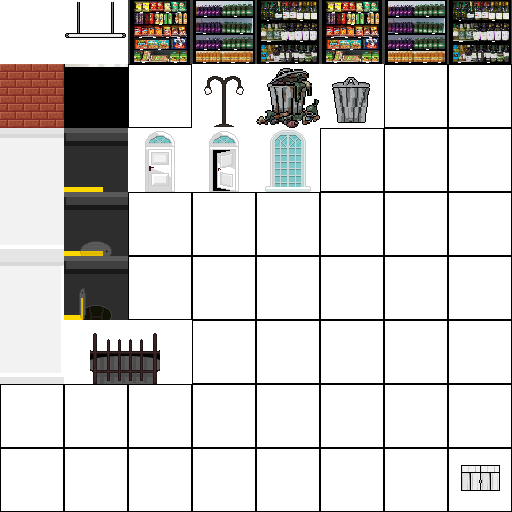
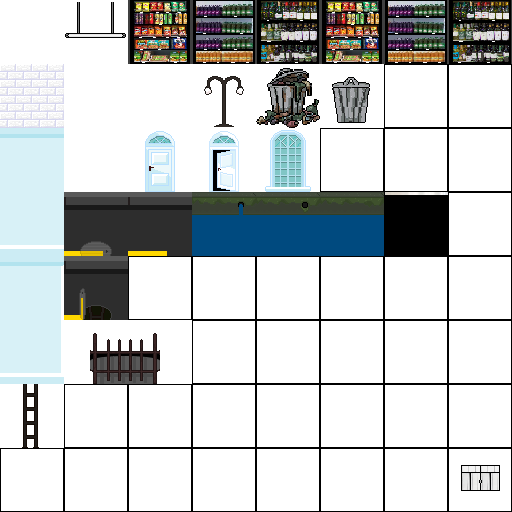
inicio do esgoto

diff --git a/src/World/World.java b/src/World/World.java
@@ -22,6 +22,7 @@ public class World {
 	public static Tile[] tiles;
 	public static int WIDTH,HEIGHT;
 	private int cont=0;
+	private boolean canoOn=false;
 	private int left_dir=0,right_dir=1;
 	private int dir=left_dir;
 	private int beiradas=1;
@@ -57,7 +58,32 @@ public class World {
 							Game.entities.add(post);
 						}
 						Plataforma pack = new Plataforma(xx*Game.TILE_SIZE,yy*Game.TILE_SIZE,Game.TILE_SIZE,Game.TILE_SIZE,null);
+						pack.setTipo(1);
 						Game.entities.add(pack);
+					}else if(pixelAtual == 0xFFF2F2F2){
+						//chao de esgoto
+						Plataforma pack = new Plataforma(xx*Game.TILE_SIZE,yy*Game.TILE_SIZE,Game.TILE_SIZE,Game.TILE_SIZE,null);
+						pack.setTipo(4);
+						Game.entities.add(pack);
+						
+						
+						
+						
+					}else if(pixelAtual == 0xFFE5E5E5){
+						//chao de esgoto co canos
+						Plataforma pack = new Plataforma(xx*Game.TILE_SIZE,yy*Game.TILE_SIZE,Game.TILE_SIZE,Game.TILE_SIZE,null);
+						if(canoOn) {
+							pack.setTipo(2);
+							canoOn=false;
+						}else {
+							pack.setTipo(3);
+							canoOn=true;
+						}
+						Game.entities.add(pack);
+						
+						
+						
+						
 					}else if(pixelAtual == 0xFFAA004A){
 						//bueiro
 						
@@ -111,10 +137,32 @@ public class World {
 						//parte de cima
 						tiles[xx + (yy * WIDTH)] = new FundoTile(xx*Game.TILE_SIZE,yy*Game.TILE_SIZE, 
 								Tile.colorir(Game.cenario.getSprite(0*Game.TILE_SIZE,2*Game.TILE_SIZE,Game.TILE_SIZE,Game.TILE_SIZE),predios1[cor]));
+					}else if(pixelAtual == 0xFF35F2F2) {
+						//parede tunel
+						tiles[xx + (yy * WIDTH)] = new FundoTile(xx*Game.TILE_SIZE,yy*Game.TILE_SIZE, 
+								Tile.colorir
+								(Game.cenario.getSprite
+										(0*Game.TILE_SIZE,1*Game.TILE_SIZE,Game.TILE_SIZE,Game.TILE_SIZE),new Color(0xFF3B4235)));
 					}else   if(pixelAtual == 0xFF595959) {
 						//porta
 						tiles[xx + (yy * WIDTH)] = new FundoTile(xx*Game.TILE_SIZE,yy*Game.TILE_SIZE, 
 								Tile.colorir(Game.cenario.getSprite(0*Game.TILE_SIZE,3*Game.TILE_SIZE,Game.TILE_SIZE,Game.TILE_SIZE),predios1[cor]));
+						Porta pack = new Porta(xx*Game.TILE_SIZE,yy*Game.TILE_SIZE,Game.TILE_SIZE,Game.TILE_SIZE,null);
+						pack.setCor(predios1[cor]);
+						Game.entities.add(pack);
+						Game.portas.add(pack);
+					}else    if(pixelAtual == 0xFFE50063) {
+						//escada baixa
+						tiles[xx + (yy * WIDTH)] = new FundoTile(xx*Game.TILE_SIZE,yy*Game.TILE_SIZE, 
+								Tile.colorir(Game.cenario.getSprite(0*Game.TILE_SIZE,3*Game.TILE_SIZE,Game.TILE_SIZE,Game.TILE_SIZE),new Color(0xFF3B4235)));
+						Porta pack = new Porta(xx*Game.TILE_SIZE,yy*Game.TILE_SIZE,Game.TILE_SIZE,Game.TILE_SIZE,null);
+						pack.setCor(predios1[cor]);
+						Game.entities.add(pack);
+						Game.portas.add(pack);
+					}else    if(pixelAtual == 0xFFFF006E) {
+						//escada corpo
+						tiles[xx + (yy * WIDTH)] = new FundoTile(xx*Game.TILE_SIZE,yy*Game.TILE_SIZE, 
+								Tile.colorir(Game.cenario.getSprite(0*Game.TILE_SIZE,3*Game.TILE_SIZE,Game.TILE_SIZE,Game.TILE_SIZE),new Color(0xFF3B4235)));
 						Porta pack = new Porta(xx*Game.TILE_SIZE,yy*Game.TILE_SIZE,Game.TILE_SIZE,Game.TILE_SIZE,null);
 						pack.setCor(predios1[cor]);
 						Game.entities.add(pack);

diff --git a/src/Entidades/EscadaEsgoto.java b/src/Entidades/EscadaEsgoto.java
@@ -1,0 +1,96 @@
+package Entidades;
+
+import java.awt.AlphaComposite;
+import java.awt.Color;
+import java.awt.Font;
+import java.awt.Graphics;
+import java.awt.Graphics2D;
+import java.awt.Rectangle;
+import java.awt.image.BufferedImage;
+
+import Main.Game;
+import World.Camera;
+
+public class EscadaEsgoto extends Entity{
+	public boolean emFrente;
+	private BufferedImage bueiro;
+	private float op=0.1f;
+	private int frames = 0;
+	public EscadaEsgoto(int x, int y, int width, int height, BufferedImage sprite) {
+		super(x, y, width, height, sprite);
+	}
+	public void tick() {
+		if(emFrente) {
+			frames++;
+			if(frames>=10) {
+				if(op<0.9f) {
+					op+=0.1f;
+				}
+			}
+			
+		}else {
+			frames=0;
+			op=0.1f;
+		}
+		depth=0;
+		setMask(0,-47,-30,32,40);
+		
+		bueiro=Game.cenario.getSprite((1)*Game.TILE_SIZE,(3)*Game.TILE_SIZE,Game.TILE_SIZE,Game.TILE_SIZE);
+		
+//		checkCollisionBueiro();
+		
+
+	}
+//	public void checkCollisionBueiro(){
+//		for(int i = 0; i < Game.bueiros.size(); i++){
+//			EscadaEsgoto atual = Game.bueiros.get(i);
+//			if(atual instanceof EscadaEsgoto) {
+//				if(Entity.isColidding(Game.player, atual,0,0)) {
+//					atual.emFrente=true;
+//				}else {
+//					atual.emFrente=false;
+//				}
+//			}
+//		}
+//	}
+	public void render(Graphics g) {
+		Graphics2D g2 = (Graphics2D) g;
+		
+		
+		if(!emFrente) {
+			g.drawImage(bueiro,this.getX()-Camera.x-Game.TILE_SIZE,this.getY()-Camera.y,Game.TILE_SIZE,Game.TILE_SIZE,null);
+		}else {
+			g.drawImage(bueiro,this.getX()-Camera.x-Game.TILE_SIZE,this.getY()-Camera.y,Game.TILE_SIZE,Game.TILE_SIZE,null);
+			g2.setComposite(AlphaComposite.getInstance(AlphaComposite.SRC_OVER, op));
+			g.setFont(new Font("Cambria Math",Font.ROMAN_BASELINE,20));
+			g.setColor(Color.white);
+			g.drawString("Esgotos", this.getX()-Camera.x-64, this.getY()-Camera.y+30);
+//			g.drawLine(100+190, 150, 100+350, 150);
+//			g.drawLine(100+160, 125, 100+310, 125);
+			g2.setComposite(AlphaComposite.getInstance(AlphaComposite.SRC_OVER, 1f));
+		}
+		
+		
+		Rectangle rect= new Rectangle(this.getX() - Camera.x+maskx[0],this.getY() - Camera.y+masky[0],maskw[0],maskh[0]);
+		Rectangle rect2= new Rectangle(this.getX() - Camera.x+maskx[1],this.getY() - Camera.y+masky[1],maskw[1],maskh[1]);
+		Rectangle rect3= new Rectangle(this.getX() - Camera.x+maskx[2],this.getY() - Camera.y+masky[2],maskw[2],maskh[2]);
+		Rectangle rect4= new Rectangle(this.getX() - Camera.x+maskx[3],this.getY() - Camera.y+masky[3],maskw[3],maskh[3]);
+		Rectangle rect5= new Rectangle(this.getX() - Camera.x+maskx[4],this.getY() - Camera.y+masky[4],maskw[4],maskh[4]);
+//		g.drawRect(this.getX() - Camera.x+maskx[0],this.getY() - Camera.y+masky[0],maskw[0],maskh[0]);
+		
+			
+			
+			
+			
+			
+			
+
+			
+			
+			
+			
+			
+		}
+						
+	
+}

diff --git a/src/Entidades/Plataforma.java b/src/Entidades/Plataforma.java
@@ -10,10 +10,19 @@ import Main.Game;
 import World.Camera;
 
 public class Plataforma extends Entity{
+	private int tipo=0;
+	private BufferedImage[] img;
 	public Plataforma(int x, int y, int width, int height, BufferedImage sprite) {
 		super(x, y, width, height, sprite);
+		img= new BufferedImage[6];
+	}
+	public void setTipo(int tipo) {
+		this.tipo=tipo-1;
 	}
 	public void tick() {
+		for(int i=0; i<img.length;i++) {
+			img[i]=Game.cenario.getSprite((2+i)*Game.TILE_SIZE,3*Game.TILE_SIZE,Game.TILE_SIZE,Game.TILE_SIZE);
+		}
 		maskx[0]= 0;
 		masky[0]= -3;
 		maskw[0]= Game.TILE_SIZE;
@@ -41,8 +50,7 @@ public class Plataforma extends Entity{
 		Rectangle rect3= new Rectangle(this.getX() - Camera.x+maskx[2],this.getY() - Camera.y+masky[2],maskw[2],maskh[2]);
 		Rectangle rect4= new Rectangle(this.getX() - Camera.x+maskx[3],this.getY() - Camera.y+masky[3],maskw[3],maskh[3]);
 		g.setColor(Color.RED);
-		g.drawImage(Game.cenario.getSprite(1*Game.TILE_SIZE,2*Game.TILE_SIZE,Game.TILE_SIZE,Game.TILE_SIZE),
-				this.getX() - Camera.x,this.getY() - Camera.y, null);
+		g.drawImage(img[tipo],this.getX() - Camera.x,this.getY() - Camera.y, null);
 //		g.drawImage(Game.cenario.getSprite(1*Game.TILE_SIZE,1*Game.TILE_SIZE,Game.TILE_SIZE,Game.TILE_SIZE),
 //				this.getX() - Camera.x,this.getY() - Camera.y, null);
 //		g2.draw(rect);
